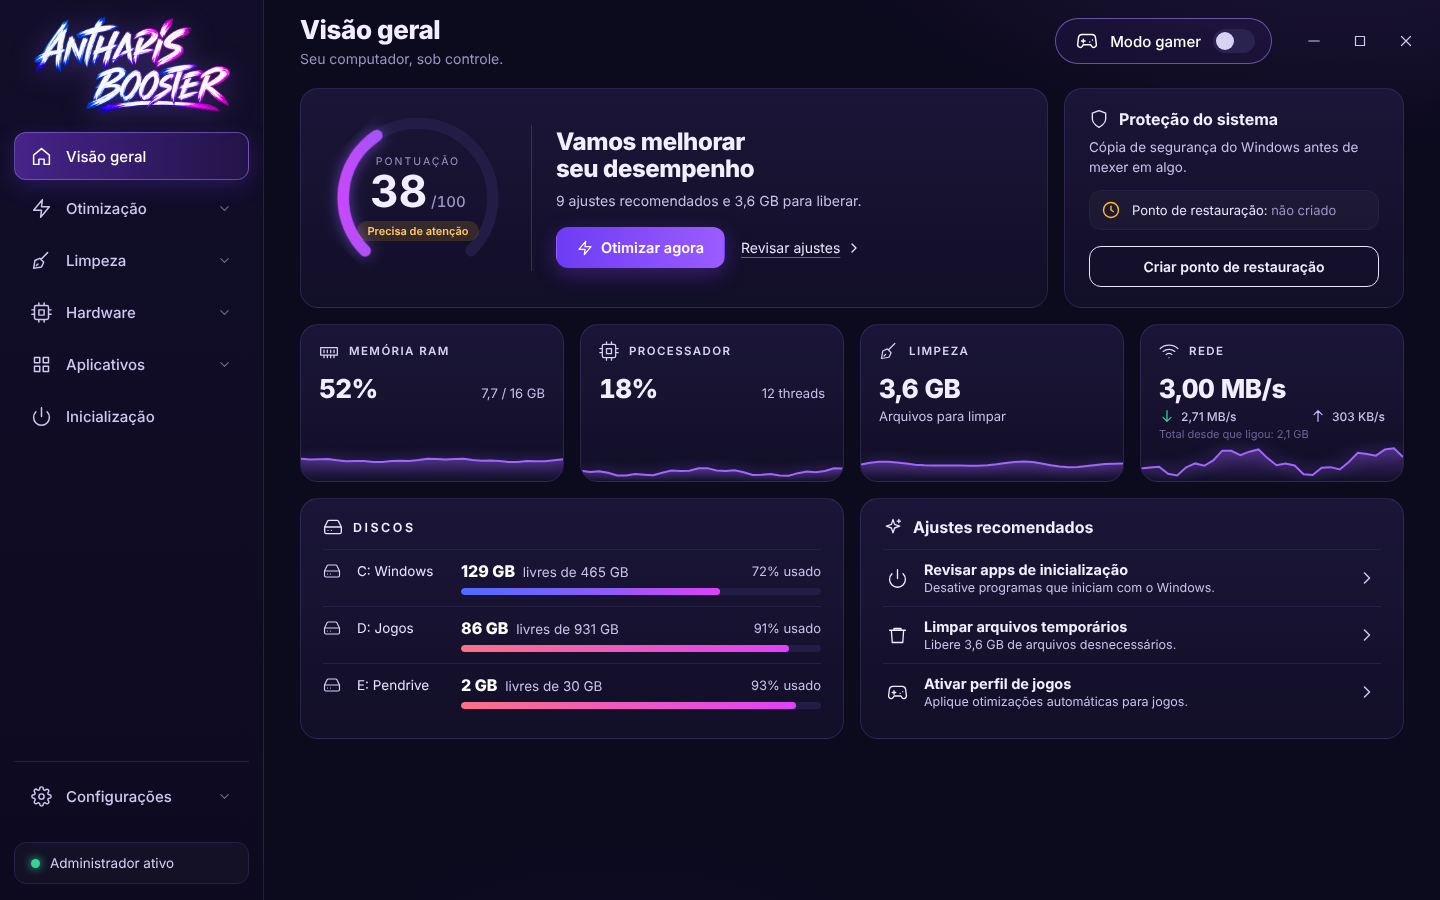
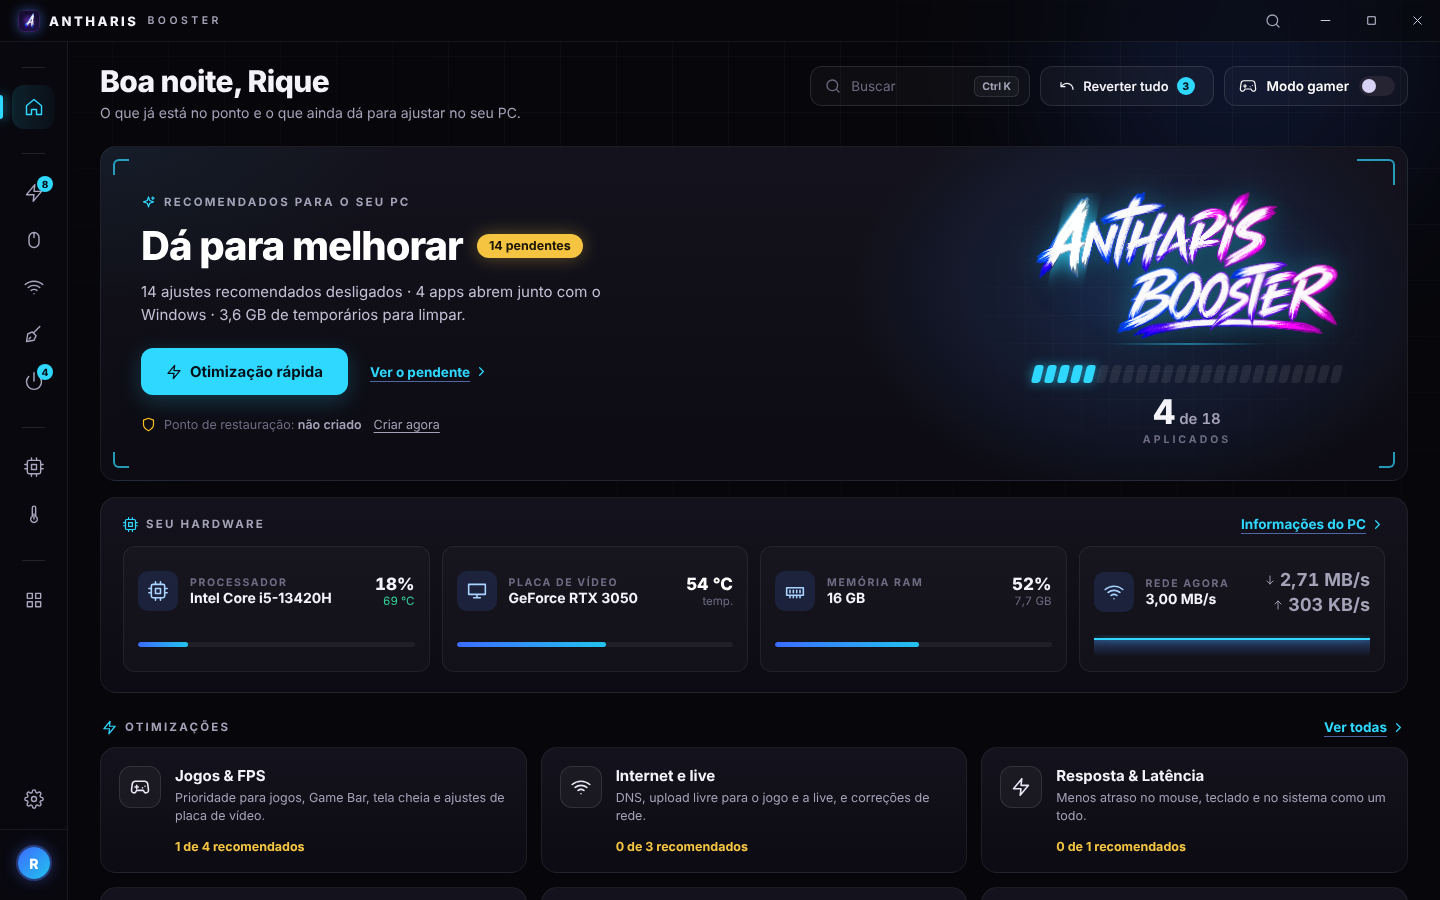
README: ativação por key, contas, recursos, privacidade e prints novos
Claude-Session: https://claude.ai/code/session_01F1kiS5yiXLyMm2fwWFkiMn

diff --git a/README.md b/README.md
@@ -1,14 +1,25 @@
 <p align="center"><img src="img/antharis-booster.png" width="360" alt="Antharis Booster"></p>
 
-<p align="center">Otimizador de PC criado por Rique. Otimize o Windows para games, limpe arquivos desnecessários, monitore o hardware e controle os programas que abrem com o Windows — tudo em uma interface simples.</p>
+<p align="center">Otimizador de PC da <b>Antharis Store</b>. Deixe o Windows pronto para jogar, limpe o que não serve, controle processador e memória e acompanhe as temperaturas do seu hardware em tempo real, tudo em uma interface simples.</p>
 
 <p align="center">
   <a href="https://github.com/riqueroder/antharis-booster-download/releases/latest/download/AntharisBooster-Setup.exe"><img src="img/baixar.png" width="360" alt="Baixar Antharis Booster"></a>
 </p>
 
-<p align="center"><sub>Windows 10 / 11 (64 bits) · versão mais recente · atualiza sozinho pelo app</sub></p>
+<p align="center"><sub>Windows 10 / 11 (64 bits) · versão mais recente · precisa de uma key de acesso · <a href="https://antharisstore.com/">comprar acesso</a></sub></p>
 
-<p align="center"><img src="img/app.png" width="820" alt="Antharis Booster"></p>
+<p align="center"><img src="img/app.png" width="820" alt="Tela inicial do Antharis Booster"></p>
+
+## O que ele faz
+
+- **Otimização rápida:** aplica de uma vez os ajustes recomendados para o seu PC.
+- **Jogos e FPS:** modo gamer, prioridade para jogos, tela cheia e ajustes da placa de vídeo.
+- **Mouse e teclado:** ajustes de resposta e teste de polling rate, estabilidade e atraso.
+- **Internet:** DNS, correções de rede e teste de velocidade.
+- **Processador e memória:** desbloqueio de núcleos, limite de velocidade e limpeza automática da RAM.
+- **Limpeza:** arquivos temporários, cache de apps e lixo do Windows.
+- **Hardware:** informações de cada peça, temperaturas em tempo real, testes de estresse e saúde da bateria.
+- **Tudo reversível:** cada ajuste pode ser desfeito, e há o botão **Reverter tudo**.
 
 ## Como instalar
 
@@ -17,8 +28,28 @@
 3. Se aparecer **"O Windows protegeu o computador"**, clique em **Mais informações** → **Executar assim mesmo**. Isso acontece só na primeira instalação.
 4. Abra o **Antharis Booster** pelo atalho na área de trabalho e aceite o aviso de administrador.
 
-Pronto! Quando sair uma versão nova, o próprio app avisa e atualiza sozinho — você não precisa voltar aqui.
+## Ativando sua key
+
+<p align="center"><img src="img/ativacao.png" width="620" alt="Tela de ativação do Antharis Booster"></p>
+
+1. Na primeira vez, o app pede a **key** que você recebeu na compra (formato `ANTH-XXXX-XXXX-XXXX`).
+2. Digite a key e clique em **Ativar**.
+3. Em seguida, **vincule uma conta** (recomendado):
+   - **Discord** ou **Google**: ao trocar ou formatar o PC, é só entrar com a conta, sem digitar a key de novo.
+   - **Conta temporária**: fica guardada só neste PC. Se formatar ou trocar de PC, use a key.
+
+A key continua ativada nas próximas atualizações. Para sair, vá em **Configurações → Preferências → Sair**.
+
+> Sem internet, o app continua funcionando por até 3 dias desde a última verificação.
+
+## Atualizações
+
+Quando sair uma versão nova, o próprio app baixa e instala sozinho. Você não precisa voltar aqui. Para desligar isso, vá em **Configurações → Preferências → Atualizar automaticamente**.
+
+## Privacidade
+
+Para validar a licença, o app envia **só dados técnicos** do PC: hardware, configurações do app e temperaturas. Ele nunca envia arquivos, senhas ou o que você faz no PC. Leia a [Política de Privacidade](https://riqueroder.github.io/antharis-booster-download/privacidade/).
 
 ---
 
-<p align="center">Feito por Rique · <a href="https://antharisstore.com/">antharisstore.com</a></p>
+<p align="center">Feito por Rique · <a href="https://antharisstore.com/">antharisstore.com</a> · <a href="https://riqueroder.github.io/antharis-booster-download/">site do Antharis Booster</a></p>
